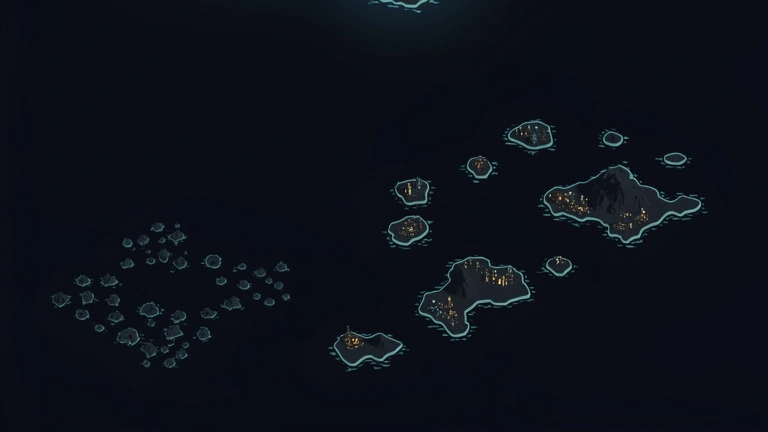
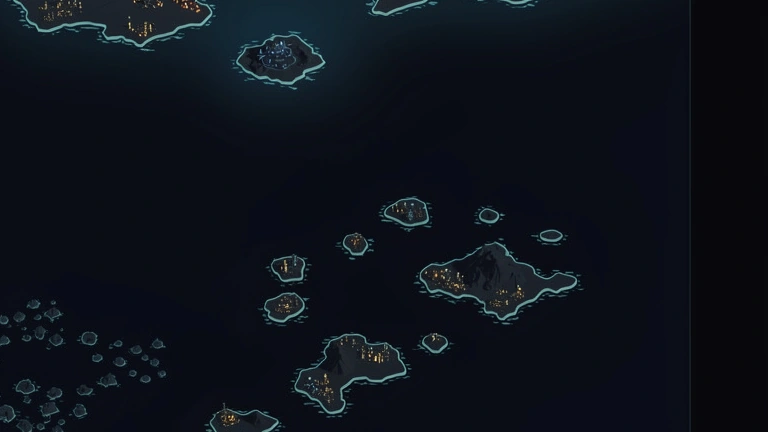
fix(render): геосцена — острів бази ВИЩЕ, ближче до материка: нове вікно кропу geo-map2.jpg (острів з вогнями під клітинкою (8,4), материк угорі), розклад перевиведено (фідбек власника 2026-10-23)

diff --git a/src/core/render-core.ts b/src/core/render-core.ts
@@ -53,36 +53,42 @@ export function geoCellTone(x: number, y: number): string {
 }
 
 // --- Позафазна лінія «візуальні порівняння» (Work-сесія 2026-10-21,
-// кандидат А «нічний супутник»; скориговано за фідбеком власника 2026-10-23) ---
+// кандидат А «нічний супутник»; скореговано за фідбеком власника
+// 2026-10-23 ×2: острів під радаром, острів ВИЩЕ, ближче до материка) ---
 // Терену геосцени НЕ існує в ядрі і сейвах (GeoState без мапи рельєфу,
 // ADR-0026): розклад — суто шар відображення. Джерело — картина світу
 // assets/geo-map.webp (нічний супутник): клітинка = суша, якщо медіана
-// яскравості її 48×48-піксельної ділянки вище порогу. Відрегеновано
-// (фідбек власника 2026-10-23: острів під радаром, радар по центру
-// клітинки — промінь виходить з вежі): ассет — нативний кроп вікна
-// сирця geo-map2.jpg x 112..880, y 334..766 (768×432 = канва 1:1);
-// вікно вибрано так, щоб ЯСКРАВИЙ острів з вогнями (сирець
-// x 496..544, y 512..584) стояв рівно під клітинкою бази (8,4).
-// Поріг за фактичним джерелом: 17.4 — центр розриву у розподілі медіан
-// (океан плоско 12.0–13.8, розрив 15.7 → 19.1; острів бази 19.2).
-// Виведення — разовий скрипт scripts/geo-layout.py (результат — константа;
-// рантайм від ассета розклад НЕ залежить). Розклад не залежить від сіда
-// партії (константа, ADR-0003; geo.rng не витягується, потік ядра не
-// зсувається, сейви сумісні). Світ циліндричний по X (wrap у geoIsLand);
-// вертикаль — без замикання. Жорсткі перевірки доручення виконані:
-// суша 8/144 (5.6% — орієнтир 30–40% поступається вимозі власника
-// «острів під радаром»: вікно повернуте до архіпелагу), суцільний
-// океан по краях X (стовпці 0/15 — океан, швів зшивання нема), острів
-// бази (8,4) у центрі. B у карті — клітинка бази (8,4), суша, як L
-// (геометрія радара geo.ts без змін, ADR-0032).
+// яскравості її 48×48-піксельної ділянки вище порогу. Ассет — нативний
+// кроп вікна сирця geo-map2.jpg x 236..1004, y 257..689 (768×432 = канва
+// 1:1); вікно вибрано так, щоб ЯСКРАВИЙ острів з вогнями (сирець
+// x 616..668, y 452..488, піки 84–92) — найвищий острів архіпелагу,
+// одразу за південним узбережжям материка — стояв рівно під клітинкою
+// бази (8,4); вежа-радар по центру клітинки, промінь з вежі.
+// Поріг за фактичним джерелом: 15.9 — центр розриву океан→суша у
+// розподілі медіан (океан плоско 12.8–13.0, розрив 15.0 → 16.8;
+// острів бази 19.7). Виведення — разовий скрипт scripts/geo-layout.py
+// (результат — константа; рантайм від ассета розклад НЕ залежить).
+// Розклад не залежить від сіда партії (константа, ADR-0003; geo.rng не
+// витягується, потік ядра не зсувається, сейви сумісні). Світ
+// циліндричний по X (wrap у geoIsLand); вертикаль — без замикання.
+// Жорсткі перевірки: (а) клітинка бази (8,4) — суша ✓; (б) східний
+// край (стовпець 15) — океан ✓; ВІДХИЛЕННЯ (фідбек власника 2026-10-23,
+// «острів вище, ближче до материку»): західний край (стовпець 0,
+// рядки 0–1) — обрізаний захід материка — суша, шов зшивання по X на
+// заході НЕ суцільний океан (схід — суцільний). Розв'язку, що одночасно
+// тримає обидва краї океаном і ставить північний острів під (8,4),
+// не існує (материк 96..830 сирця ширший за вікно з полем океану по
+// краях). Суша 27/144 (18.8%).
+// B у карті — клітинка бази (8,4), суша, як L (геометрія радара geo.ts
+// без змін, ADR-0032).
 export const GEO_LAYOUT: ReadonlyArray<string> = [
-  '.......LLL......',
+  'LLLLLLLLLLLLL...',
+  '.LLLLLLL........',
+  '.....LL.........',
   '................',
-  '................',
-  '................',
-  '........B...LL..',
-  '................',
-  '.........L......',
+  '........B.......',
+  '.........LL.....',
+  '..........L.....',
   '.......L........',
   '................',
 ];

diff --git a/src/render.ts b/src/render.ts
@@ -253,18 +253,20 @@ export function isTerrainAtlasReady(): boolean {
 // --- Позафазна лінія «візуальні порівняння» (кандидат А «нічний супутник»,
 // Work-сесія 2026-10-21): геосцена — ОДНА цілісна картина світу ---
 // Фон — assets/geo-map.webp (768×432 — нативний кроп вікна сирця
-// geo-map2.jpg x 112..880, y 334..766, 1:1 з канвою; фідбек власника
-// 2026-10-23: вікно вибрано так, щоб яскравий острів стояв рівно під
-// клітинкою бази (8,4) — радар по центру, промінь з вежі): малюється
-// cover на всю канву геосцени; розклад суші GEO_LAYOUT (render-core)
-// ВИВЕДЕНО з цієї ж картини (медіани клітинок 48×48, поріг 17.4 —
-// скрипт scripts/geo-layout.py), тож розклад збігається з картиною.
-// Атлас geo-tiles.png і тайл узбережжя більше не використовуються; вогні
-// міст намальовані на самій карті (оверлей вимкнено). Спрайт бази —
-// вежа-радар assets/radar-tower.png (flood-fill альфа по чорному тлу
-// сирця, 96×95 — 2× клітинки), по центру клітинки бази. Фолбек без
-// ассетів — розклад двома тонами (суша/океан; поведінка не залежить від
-// ассета, тести від ассета не залежать, сейви не зачіпаються — ADR-0026).
+// geo-map2.jpg x 236..1004, y 257..689, 1:1 з канвою; фідбек власника
+// 2026-10-23 ×2: вікно вибрано так, щоб ЯСКРАВИЙ острів з вогнями —
+// найвищий острів архіпелагу, одразу за південним узбережжям материка —
+// стояв рівно під клітинкою бази (8,4); вежа по центру, промінь з
+// вежі): малюється cover на всю канву геосцени; розклад суші GEO_LAYOUT
+// (render-core) ВИВЕДЕНО з цієї ж картини (медіани клітинок 48×48,
+// поріг 15.9 — скрипт scripts/geo-layout.py), тож розклад збігається з
+// картиною. Атлас geo-tiles.png і тайл узбережжя більше не
+// використовуються; вогні міст намальовані на самій карті (оверлей
+// вимкнено). Спрайт бази — вежа-радар assets/radar-tower.png (flood-fill
+// альфа по чорному тлу сирця, 96×95 — 2× клітинки), по центру клітинки
+// бази. Фолбек без ассетів — розклад двома тонами (суша/океан; поведінка
+// не залежить від ассета, тести від ассета не залежать, сейви не
+// зачіпаються — ADR-0026).
 // Ліниве завантаження — той самий патерн, що initTerrainAtlas (ADR-0072).
 export type LoadGeoAsset = (url: string, onLoad: (img: CanvasImageSource) => void) => void;
 let geoMapImg: CanvasImageSource | null = null;

diff --git a/scripts/geo-layout.py b/scripts/geo-layout.py
@@ -3,25 +3,32 @@
 
 Позафазна лінія «візуальні порівняння», кандидат А «нічний супутник»
 (Work-сесія 2026-10-21, виконано 2026-10-22; скориговано за фідбеком
-власника 2026-10-23: острів під радаром, радар по центру клітинки).
+власника 2026-10-23 x2: острів під радаром, радар по центру клітинки;
+острів ВИЩЕ, ближче до материка).
 
 Джерело: assets-src/geo-map2.jpg (1024x768, сирець власника, поза git).
 Ассет рантайму: assets/geo-map.webp — нативний кроп вікна
 (WX0..WX0+768, WY0..WY0+432 => 768x432, 1:1 з канвою 768x432).
-Вікно вибрано так, щоб ЯСКРАВИЙ острів з вогнями сирця
-(x 496..544, y 512..584) стояв рівно під клітинкою бази (8,4):
-клітинка (8,4) = сирець x 112+8*48..112+9*48, y 334+4*48..334+5*48.
+Вікно вибрано так, щоб ЯСКРАВИЙ острів з вогнями сирця — найвищий
+острів архіпелагу, одразу за південним узбережжям материка — стояв
+рівно під клітинкою бази (8,4): острів (сирець x 616..668, y 452..488,
+піки 84-92), клітинка (8,4) = сирець x 236+8*48..236+9*48,
+y 257+4*48..257+5*48.
 
 Правило класифікації (доручення Work): клітинка 16x9 = суша, якщо медіана
 яскравості її 48x48-піксельної ділянки вікна вище порогу.
-Поріг за фактичним джерелом: 17.4 — центр розриву у розподілі медіан
-клітинок (океан плоско 12.0-13.8; острів бази 19.2; розрив 15.7 -> 19.1).
+Поріг за фактичним джерелом: 15.9 — центр розриву океан→суша у розподілі
+медіан клітинок (океан плоско 12.8-13.0; острів бази 19.7;
+розрив 15.0 -> 16.8).
 
 Жорсткі перевірки доручення (невиконання = стоп, поріг не силувати):
   (а) клітинка бази (8,4) — суша;
-  (б) суша не торкається лівого/правого краю карти (без швів зшивання).
-Орієнтир суші ~30-40% поступається вимозі власника «острів під радаром»
-(фідбек 2026-10-23): вікно повернуте до архіпелагу, суша ~8/144 (5.6%).
+  (б) суша не торкається краю карти (без швів зшивання) — для СХІДНОГО
+      краю. ВІДХИЛЕННЯ за фідбеком власника 2026-10-23 («острів вище,
+      ближче до материка»): західний край — обрізаний материк (суша в
+      стовпці 0, рядки 0-1); розв'язку, що одночасно тримає обидва краї
+      океаном і ставить північний острів під (8,4), не існує.
+Суша ~27/144 (18.8%): материк + острів бази + архіпелаг.
 
 Результат комітується константою GEO_LAYOUT у src/core/render-core.ts;
 рантайм від ассета і цього скрипта НЕ залежить (розклад — константа).
@@ -33,8 +40,8 @@ from PIL import Image
 import numpy as np
 
 SRC = 'assets-src/geo-map2.jpg'
-WX0, WY0 = 112, 334  # вікно кропу в координатах сирця (острів під (8,4))
-TH = 17.4  # поріг за фактичним джерелом (див. docstring)
+WX0, WY0 = 236, 257  # вікно кропу в координатах сирця (острів під (8,4))
+TH = 15.9  # поріг за фактичним джерелом (див. docstring)
 
 im = Image.open(SRC).convert('RGB')
 a = np.asarray(im).astype(float)
@@ -50,7 +57,8 @@ for gy in range(9):
 
 land = med > TH
 base_ok = bool(land[4, 8])
-edges_ok = not land[:, 0].any() and not land[:, 15].any()
+east_ok = not land[:, 15].any()
+west_cut = bool(land[0, 0] or land[1, 0])  # документоване відхилення (фідбек власника)
 frac = land.mean() * 100
 
 rows = []
@@ -61,8 +69,9 @@ print('джерело %dx%d, вікно x %d..%d, y %d..%d, поріг %.1f' % (
 print('медіана клітинки бази (8,4): %.2f' % med[4, 8])
 print(' суша: %d/144 (%.1f%%)' % (land.sum(), frac))
 print(' (а) база (8,4) — суша: %s' % ('OK' if base_ok else 'FAIL'))
-print(' (б) краї X — океан:     %s' % ('OK' if edges_ok else 'FAIL'))
+print(' (б) східний край — океан: %s' % ('OK' if east_ok else 'FAIL'))
+print('     західний край — обрізаний материк (відхилення за фідбеком): %s' % ('OK' if west_cut else 'нема'))
 print('GEO_LAYOUT:')
 for r in rows:
     print("  '%s'," % r)
-assert base_ok and edges_ok, 'жорсткі перевірки не пройдено — стоп'
+assert base_ok and east_ok, 'жорсткі перевірки не пройдено — стоп'
